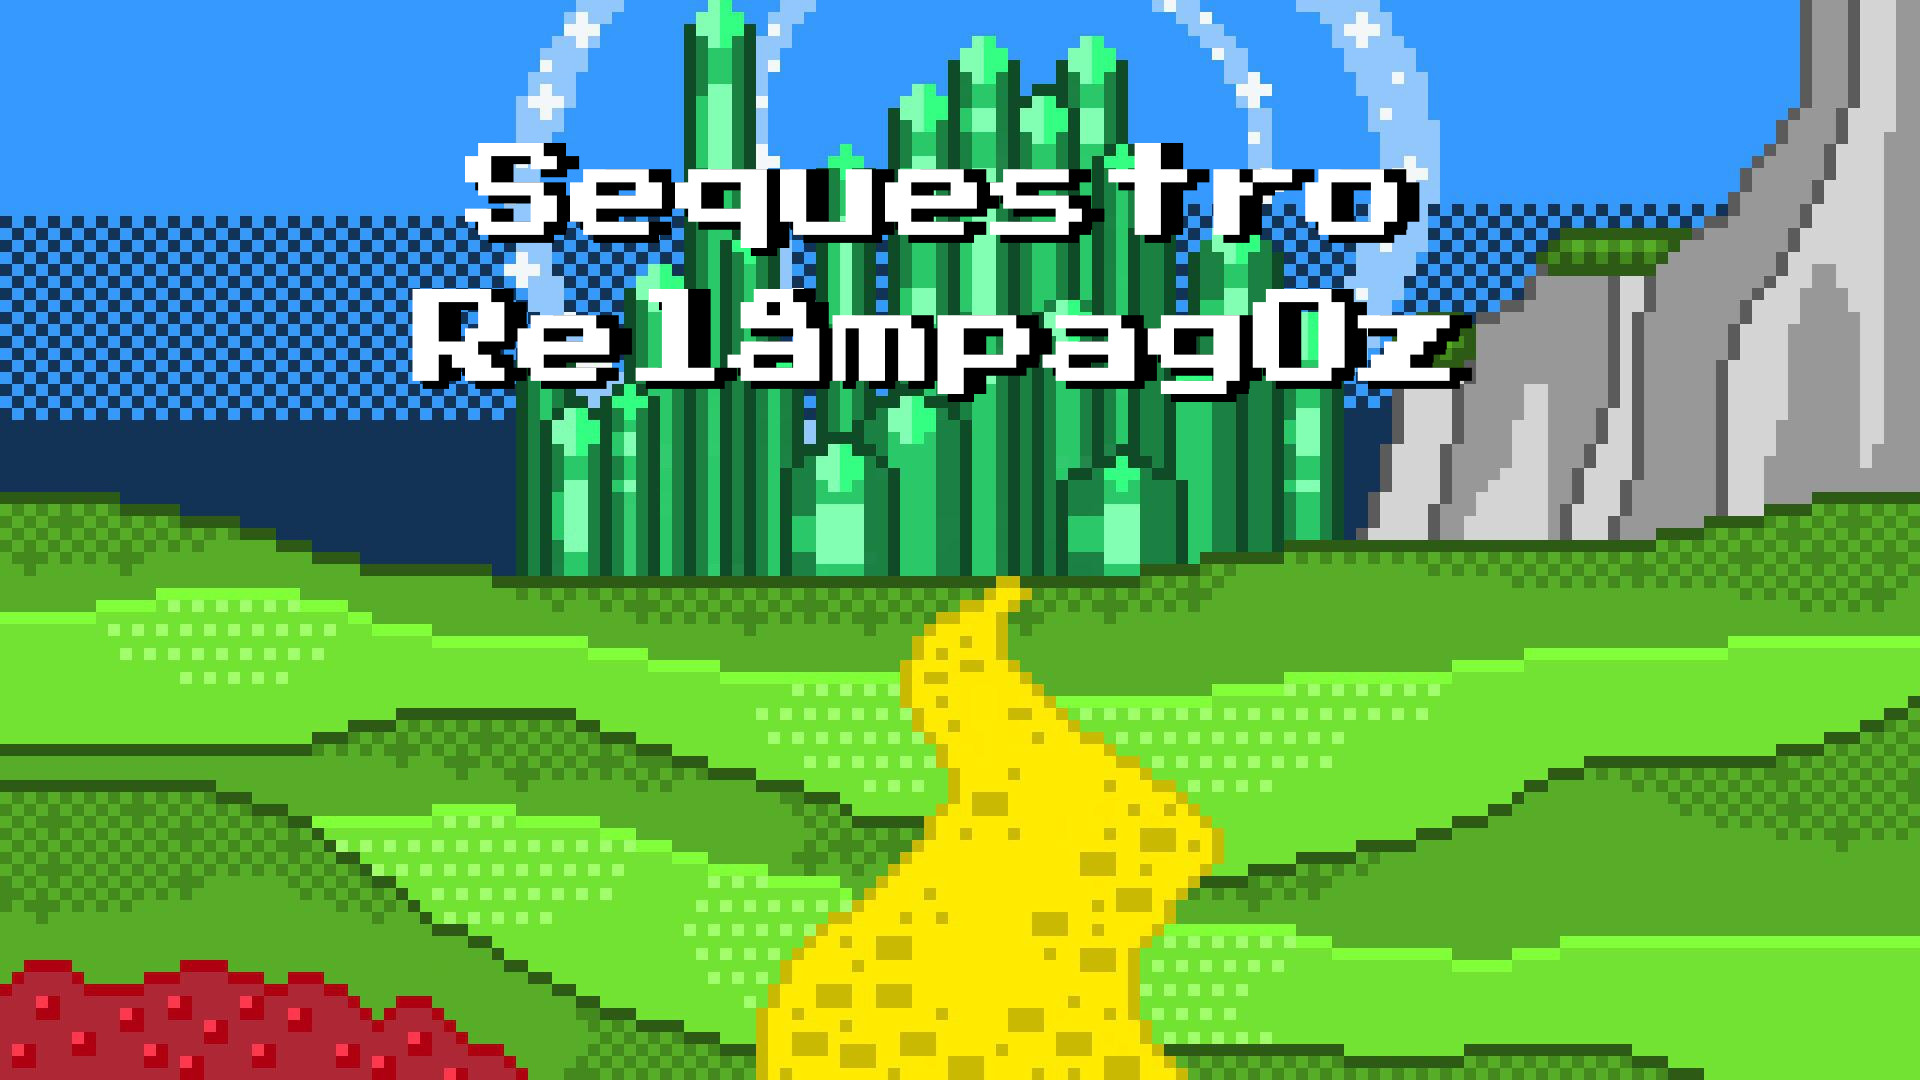
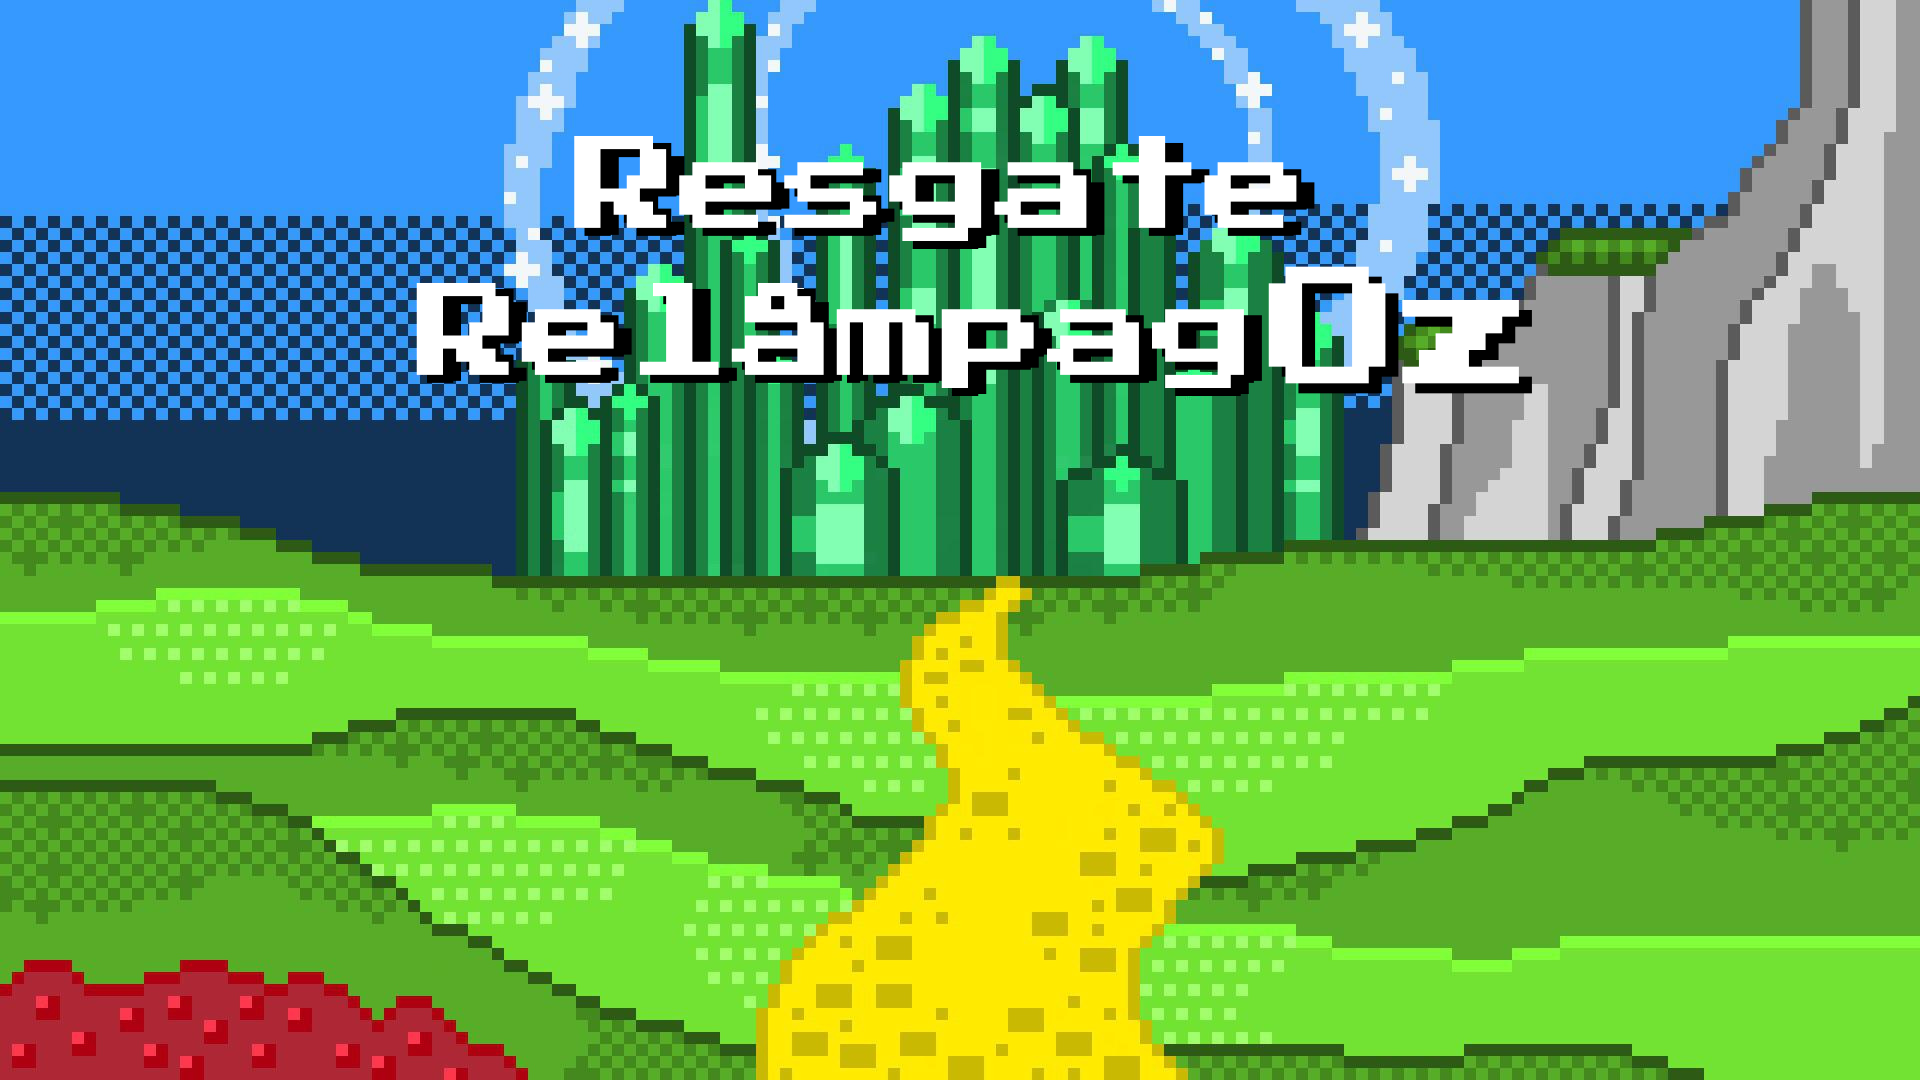
ajuste do menu e da resolução da tela

Changed region(s): [[0.2188, 0.1222, 0.8125, 0.3972]]

diff --git a/main.py b/main.py
@@ -17,8 +17,8 @@ exit_button_img = pygame.image.load('imagens/buttons/botao-sair.png').convert_al
 restart_button_img = pygame.image.load('imagens/buttons/botao-reiniciar.png').convert_alpha() #botão do restart (para o game over)
 
 restart_button = Button(350, 300, restart_button_img, 1)
-start_button = Button(350, 280, start_button_img, 1)
-exit_button = Button(350, 430, exit_button_img, 1)
+start_button = Button(500, 350, start_button_img, 1)
+exit_button = Button(495, 480, exit_button_img, 1)
 
 # === CARREGAMENTO E CONFIGURAÇÃO DO FUNDO ===
 BG1 = pygame.image.load('imagens/backgrounds/fundo-menuprincipal.png')

diff --git a/settings.py b/settings.py
@@ -2,8 +2,8 @@ import pygame
 pygame.font.init() # inicializa o módulo de fontes do Pygame
 
 # === DEFINIÇÕES GERAIS (TELA, TÍTULO, FPS) ===
-tela_largura = 1000
-tela_altura = 600
+tela_largura = 1280
+tela_altura = 720
 título = 'Resgate RelâmpagOZ'
 fps = 60 # determina a velocidade máxima de atualização da tela
 
